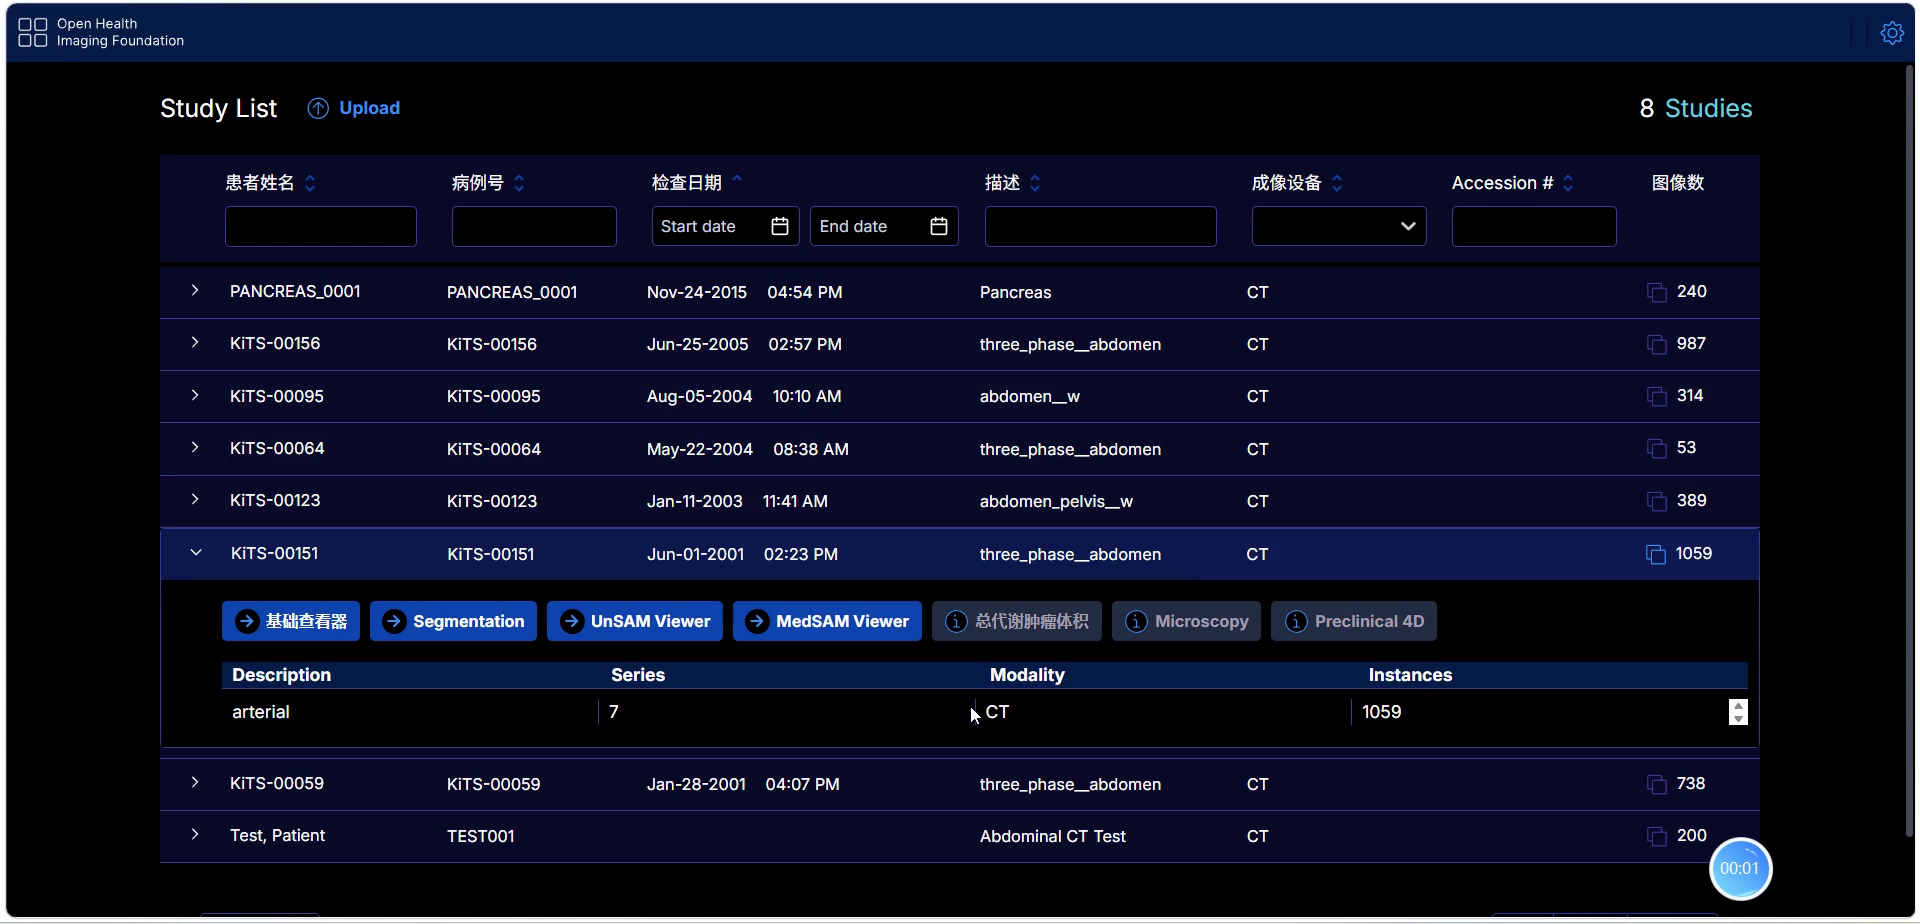
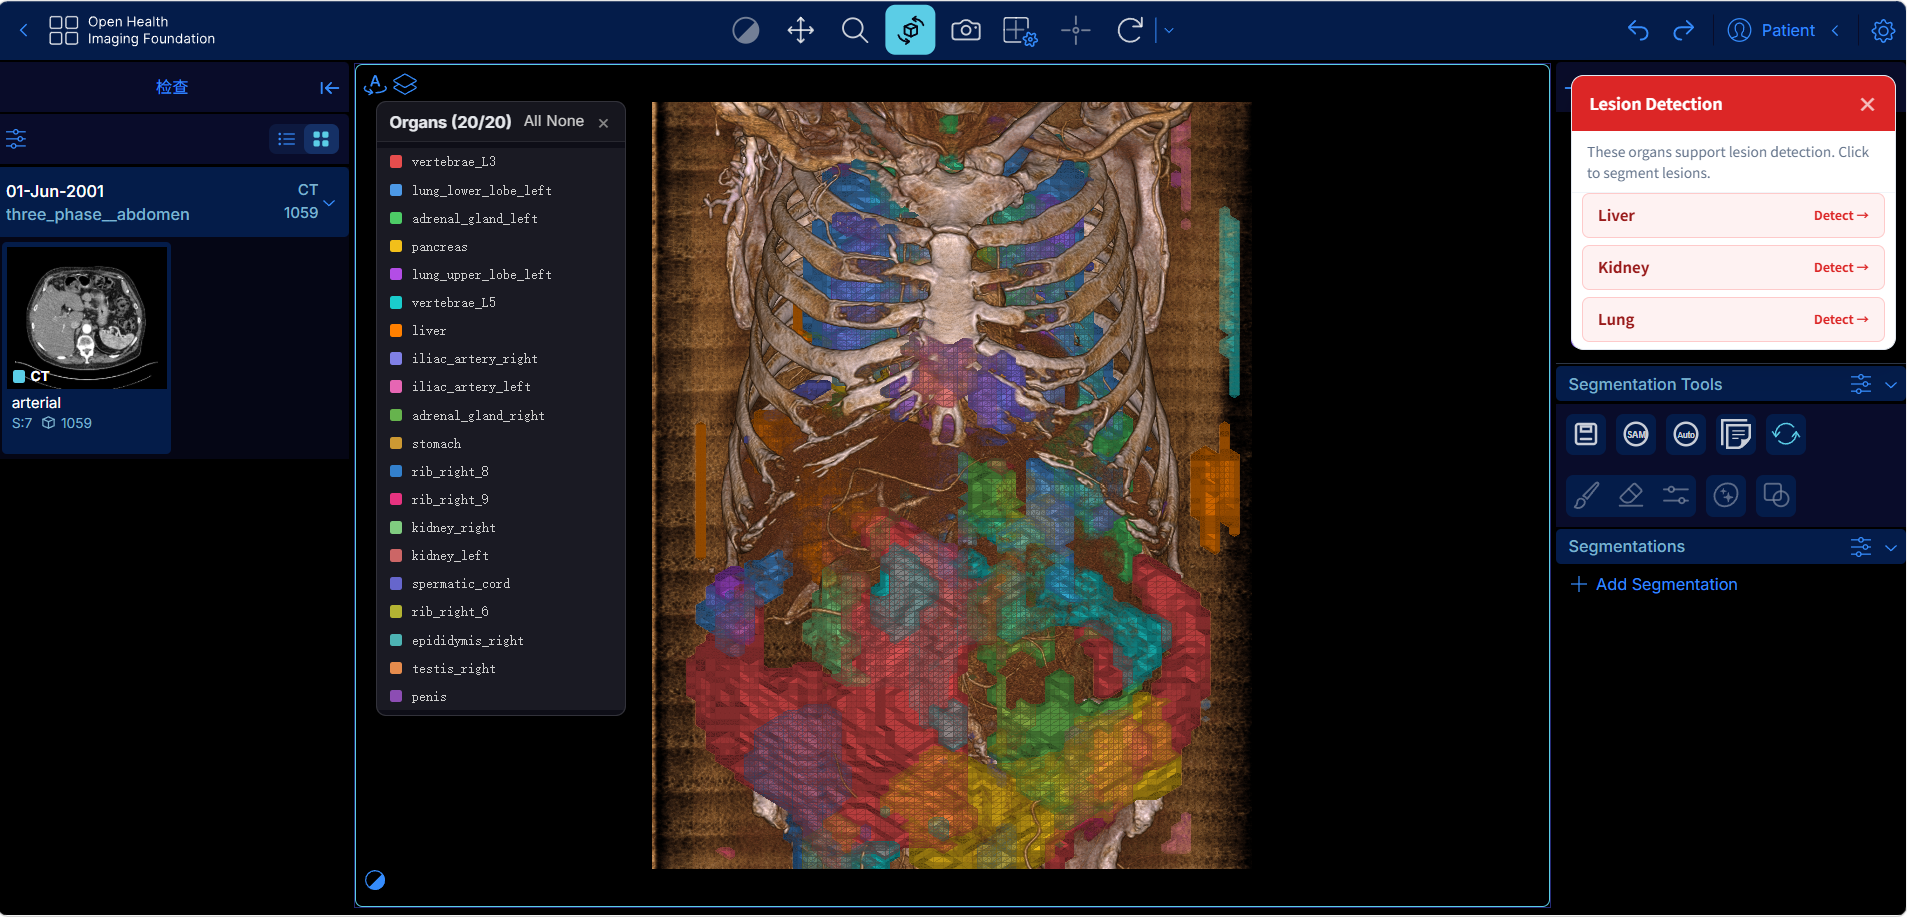
finished

diff --git a/service/totalseg_service.py b/service/totalseg_service.py
@@ -6,6 +6,9 @@ TotalSegmentator 全器官分割服务 (port 8004)
 - GET  /health             →  健康检查
 - 自动从 Orthanc 读取 DICOM 序列，运行 TotalSegmentator 推理
 """
+from dotenv import load_dotenv
+load_dotenv()
+
 import multiprocessing
 if 'win' in __import__('sys').platform:
     multiprocessing.set_start_method("spawn", force=True)

diff --git a/totalseg_service.py b/totalseg_service.py
@@ -6,6 +6,9 @@ TotalSegmentator 全器官分割服务 (port 8004)
 - GET  /health             →  健康检查
 - 自动从 Orthanc 读取 DICOM 序列，运行 TotalSegmentator 推理
 """
+from dotenv import load_dotenv
+load_dotenv()
+
 import multiprocessing
 if 'win' in __import__('sys').platform:
     multiprocessing.set_start_method("spawn", force=True)

diff --git a/README.md b/README.md
@@ -15,18 +15,18 @@
 
 ---
 
-<a href="https://raw.githubusercontent.com/ZexiLi429/Medical-AI-Diagnostic-Platform/master/demo.mp4">
+<a href="https://github.com/ZexiLi429/Medical-AI-Diagnostic-Platform/issues/1#issue-5124351836">
   <img src="demo.png" alt="Demo Video" width="100%">
 </a>
-<p align="center"><em>👆 Click the image to watch the demo video</em></p>
+<p align="center"><em>👆 Click the image to view the demo video (GitHub Issues)</em></p>
 
 ---
 
-## 🧠 Overview
+##  Overview
 
 A dissertation platform integrating **117-class anatomical segmentation**, **box-guided lesion detection** (liver / lung / kidney), and **LLM-powered diagnostic report generation** into a unified CT analysis workflow. Designed for CPU-only deployment with adaptive Z-axis downsampling and dual-level inference caching.
 
-## 🏗 Architecture
+## Architecture
 
 ```
 OHIF/vtk.js Frontend (:3000)     ← 2D MPR + 3D Volume Rendering + Organ Meshes
@@ -46,12 +46,12 @@ Docker: MedSAM2 (:8003, interactive refinement)
 
 | Category | Capability |
 |----------|------------|
-| 🔬 **Segmentation** | 117 anatomical structures via TotalSegmentator v2 |
-| 🎯 **Lesion Detection** | Box-guided: liver lesions · lung nodules · kidney cysts |
-| 🗣 **Semantic Queries** | Natural-language organ lookup (`"left lung"`, `"rib"`) |
-| 🩻 **3D Visualisation** | vtk.js volume rendering with semi-transparent organ meshes |
-| 📝 **Report Generation** | Three-agent workflow: Analysis → Evaluation → Generation |
-| ⚡ **Performance** | Adaptive Z downsampling · Dual-level cache · CPU-only |
+|  **Segmentation** | 117 anatomical structures via TotalSegmentator v2 |
+| **Lesion Detection** | Box-guided: liver lesions · lung nodules · kidney cysts |
+|  **Semantic Queries** | Natural-language organ lookup (`"left lung"`, `"rib"`) |
+|  **3D Visualisation** | vtk.js volume rendering with semi-transparent organ meshes |
+|  **Report Generation** | Three-agent workflow: Analysis → Evaluation → Generation |
+|  **Performance** | Adaptive Z downsampling · Dual-level cache · CPU-only |
 
 ## 🚀 Quick Start
 
@@ -102,7 +102,7 @@ Upload DICOM to Orthanc (`:8042`) → open OHIF (`:3000`) → segmentation trigg
 | `POST` | `/generate_report` | Full diagnostic report |
 | `GET` | `/health` | Health check |
 
-## 📊 Key Results
+##  Key Results
 
 | Metric | Value | Notes |
 |--------|-------|-------|
